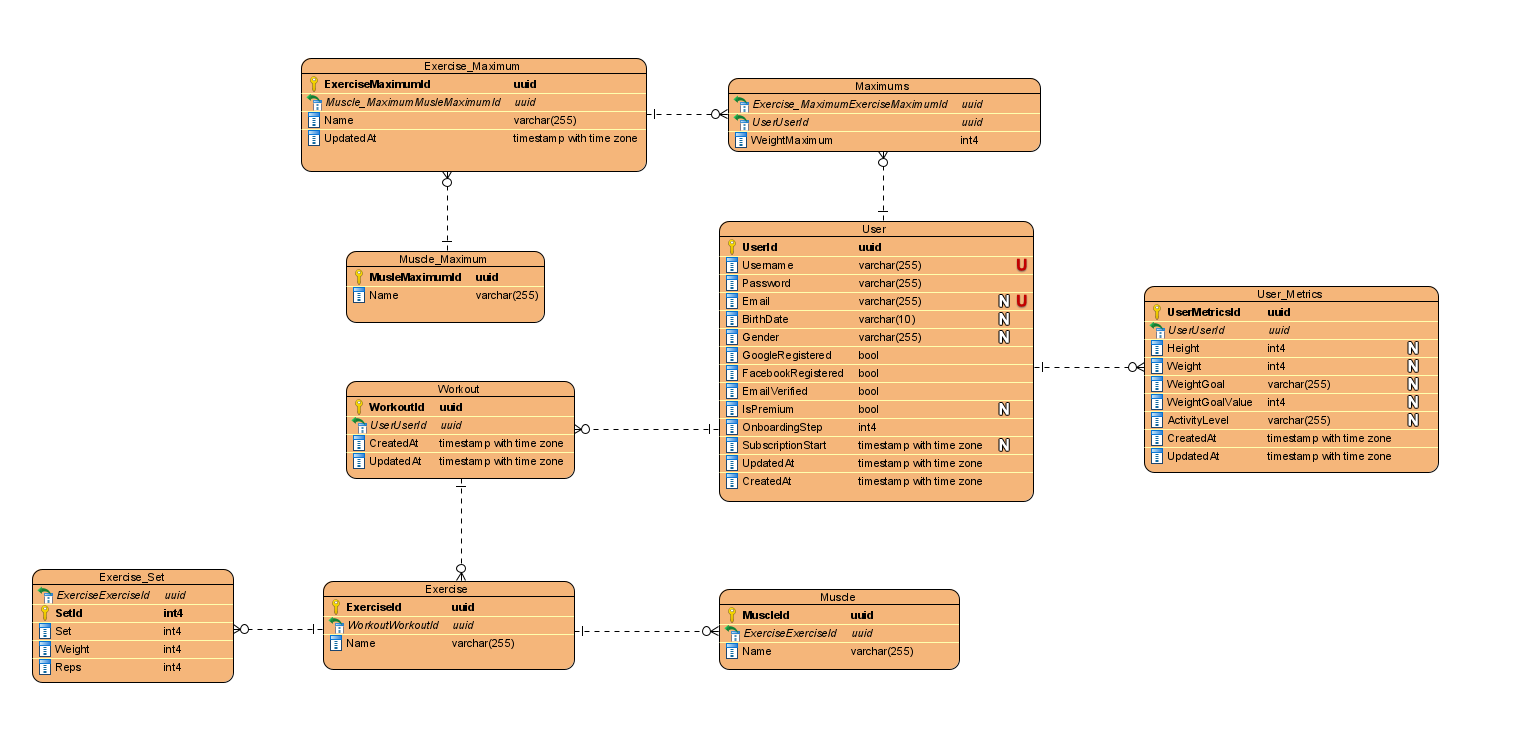
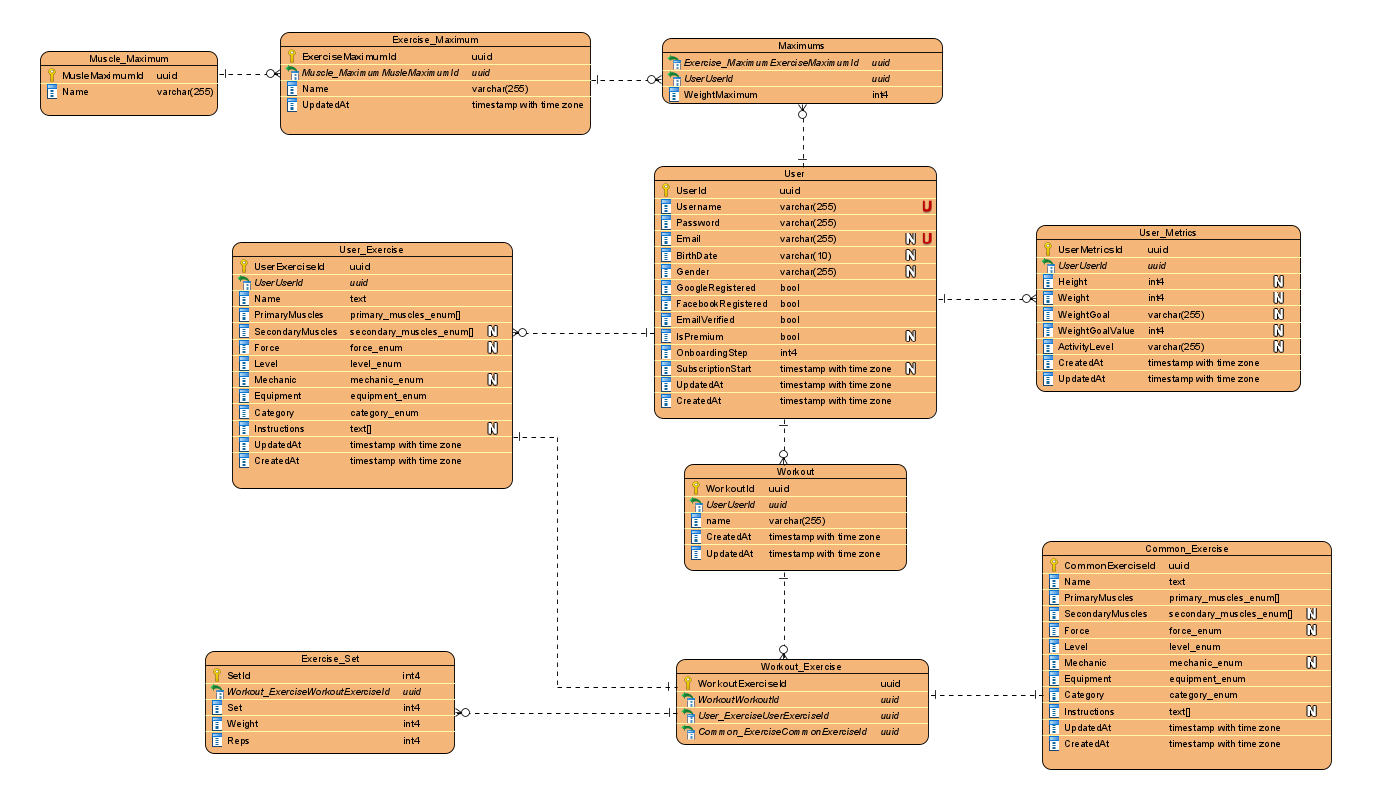
feature: updated entities

diff --git a/server/src/entities/UserExercise.ts b/server/src/entities/UserExercise.ts
@@ -1,0 +1,104 @@
+import { Field, ObjectType } from "type-graphql";
+import {
+  BaseEntity,
+  Column,
+  CreateDateColumn,
+  Entity,
+  ManyToOne,
+  OneToMany,
+  OneToOne,
+  PrimaryGeneratedColumn,
+  UpdateDateColumn,
+} from "typeorm";
+
+import {
+  AppMuscle,
+  Category,
+  Equipment,
+  Force,
+  Level,
+  Mechanic,
+} from "./CommonExercise";
+import { ExerciseSet } from "./ExerciseSet";
+import { User } from "./User";
+import { Workout } from "./Workout";
+import { WorkoutExercise } from "./WorkoutExercise";
+
+@ObjectType()
+@Entity()
+export class UserExercise extends BaseEntity {
+  // SQL
+  @Field(() => String)
+  @PrimaryGeneratedColumn("uuid")
+  id!: string;
+  // // Fields
+  // @Field(() => String)
+  // @Column({ type: "text" })
+  // name: string;
+  // @Field(() => [String])
+  // @Column({
+  //   name: "primary_muscles",
+  //   type: "enum",
+  //   enum: AppMuscle,
+  //   array: true,
+  //   default: [],
+  // })
+  // primaryMuscles: AppMuscle[];
+  // @Field(() => [String])
+  // @Column({
+  //   name: "secondary_muscles",
+  //   type: "enum",
+  //   enum: AppMuscle,
+  //   array: true,
+  //   default: [],
+  // })
+  // secondaryMuscles: AppMuscle[];
+  // @Field(() => String, { nullable: true })
+  // @Column({ type: "enum", enum: Force, nullable: true })
+  // force: Force;
+  // @Field(() => String)
+  // @Column({ type: "enum", enum: Level, nullable: true })
+  // level: Level;
+  // @Field(() => String, { nullable: true })
+  // @Column({
+  //   type: "enum",
+  //   enum: Mechanic,
+  //   nullable: true,
+  // })
+  // mechanic: Mechanic;
+  // @Field(() => String, { nullable: true })
+  // @Column({
+  //   type: "enum",
+  //   enum: Equipment,
+  //   nullable: true,
+  // })
+  // equipment: Equipment;
+  // @Field(() => String)
+  // @Column({
+  //   type: "enum",
+  //   enum: Category,
+  //   nullable: true,
+  // })
+  // category: Category;
+  // @Field(() => [String])
+  // @Column({ type: "text", array: true })
+  // instructions: string[];
+  // @Field(() => String)
+  @UpdateDateColumn({ type: "timestamp with time zone" })
+  updatedAt: Date;
+
+  @Field(() => String)
+  @CreateDateColumn({ type: "timestamp with time zone" })
+  createdAt: Date;
+
+  @Field(() => User)
+  @ManyToOne(() => User, (user: User) => user.userExercise)
+  user: User;
+
+  @Field(() => WorkoutExercise)
+  @OneToOne(
+    () => WorkoutExercise,
+    (workoutExercise: WorkoutExercise) => workoutExercise.userExercise,
+  )
+  workoutExercise: WorkoutExercise;
+}

diff --git a/server/src/entities/WorkoutExercise.ts b/server/src/entities/WorkoutExercise.ts
@@ -1,0 +1,58 @@
+import { Field, ObjectType } from "type-graphql";
+import {
+  BaseEntity,
+  CreateDateColumn,
+  Entity,
+  ManyToOne,
+  OneToMany,
+  OneToOne,
+  PrimaryGeneratedColumn,
+  UpdateDateColumn,
+} from "typeorm";
+import { CommonExercise } from "./CommonExercise";
+import { ExerciseSet } from "./ExerciseSet";
+import { UserExercise } from "./UserExercise";
+import { Workout } from "./Workout";
+
+@ObjectType()
+@Entity()
+export class WorkoutExercise extends BaseEntity {
+  // SQL
+  @Field(() => String)
+  @PrimaryGeneratedColumn("uuid")
+  id!: string;
+
+  @Field(() => String)
+  @UpdateDateColumn({ type: "timestamp with time zone" })
+  updatedAt: Date;
+
+  @Field(() => String)
+  @CreateDateColumn({ type: "timestamp with time zone" })
+  createdAt: Date;
+
+  // Relations
+  @Field(() => Workout)
+  @ManyToOne(() => Workout, (workout: Workout) => workout.workoutExercise)
+  workout: Workout;
+
+  @Field(() => [ExerciseSet])
+  @OneToMany(
+    () => ExerciseSet,
+    (exerciseSet: ExerciseSet) => exerciseSet.workoutExercise,
+  )
+  exerciseSet: ExerciseSet;
+
+  @Field(() => UserExercise)
+  @OneToOne(
+    () => UserExercise,
+    (userExercise: UserExercise) => userExercise.workoutExercise,
+  )
+  userExercise: UserExercise;
+
+  @Field(() => CommonExercise)
+  @OneToOne(
+    () => CommonExercise,
+    (commonExercise: CommonExercise) => commonExercise.workoutExercise,
+  )
+  commonExercise: CommonExercise;
+}

diff --git a/server/src/entities/Workout.ts b/server/src/entities/Workout.ts
@@ -1,17 +1,17 @@
 import moment from "moment";
 import { Field, Int, ObjectType } from "type-graphql";
 import {
-  Entity,
   BaseEntity,
-  PrimaryGeneratedColumn,
-  UpdateDateColumn,
+  Column,
   CreateDateColumn,
+  Entity,
   ManyToOne,
   OneToMany,
-  Column,
+  PrimaryGeneratedColumn,
+  UpdateDateColumn,
 } from "typeorm";
-import { Exercise } from "./Exercise";
 import { User } from "./User";
+import { WorkoutExercise } from "./WorkoutExercise";
 
 @ObjectType()
 @Entity()
@@ -35,10 +35,13 @@ export class Workout extends BaseEntity {
 
   // Relations
   @Field(() => User)
-  @ManyToOne(() => User, (user: User) => user.userMetrics)
+  @ManyToOne(() => User, (user: User) => user.workout)
   user: User;
 
-  @Field(() => [Exercise])
-  @OneToMany(() => Exercise, (exercise: Exercise) => exercise.workout)
-  exercise: Exercise[];
+  @Field(() => WorkoutExercise)
+  @OneToMany(
+    () => WorkoutExercise,
+    (workoutExercise: WorkoutExercise) => workoutExercise.workout,
+  )
+  workoutExercise: WorkoutExercise;
 }

diff --git a/server/src/index.ts b/server/src/index.ts
@@ -16,12 +16,12 @@ import { redis } from "./redis";
 
 //Entities
 import { CommonExercise } from "./entities/CommonExercise";
-import { Exercise } from "./entities/Exercise";
 import { ExerciseSet } from "./entities/ExerciseSet";
-import { Muscle } from "./entities/Muscle";
 import { User } from "./entities/User";
+import { UserExercise } from "./entities/UserExercise";
 import { UserMetrics } from "./entities/UserMetrics";
 import { Workout } from "./entities/Workout";
+import { WorkoutExercise } from "./entities/WorkoutExercise";
 
 //Resolvers
 import { UserResolver } from "./resolvers/user";
@@ -43,12 +43,12 @@ const main = async () => {
     migrations: [path.join(__dirname, "./migrations/*")],
     entities: [
       CommonExercise,
-      Exercise,
       ExerciseSet,
-      Muscle,
       User,
+      UserExercise,
       UserMetrics,
       Workout,
+      WorkoutExercise,
     ],
   });
 

diff --git a/server/src/entities/ExerciseSet.ts b/server/src/entities/ExerciseSet.ts
@@ -1,12 +1,12 @@
 import { Field, Int, ObjectType } from "type-graphql";
 import {
+  BaseEntity,
   Column,
   Entity,
-  BaseEntity,
-  PrimaryGeneratedColumn,
   ManyToOne,
+  PrimaryGeneratedColumn,
 } from "typeorm";
-import { Exercise } from "./Exercise";
+import { WorkoutExercise } from "./WorkoutExercise";
 
 @ObjectType()
 @Entity()
@@ -28,8 +28,10 @@ export class ExerciseSet extends BaseEntity {
   @Column()
   reps: number;
 
-  // Relations
-  @Field(() => Exercise)
-  @ManyToOne(() => Exercise, (exercise: Exercise) => exercise.exerciseSet)
-  exercise: Exercise[];
+  @Field(() => WorkoutExercise)
+  @ManyToOne(
+    () => WorkoutExercise,
+    (workoutExercise: WorkoutExercise) => workoutExercise.exerciseSet,
+  )
+  workoutExercise: WorkoutExercise;
 }

diff --git a/server/src/entities/CommonExercise.ts b/server/src/entities/CommonExercise.ts
@@ -4,9 +4,15 @@ import {
   Column,
   CreateDateColumn,
   Entity,
+  ManyToOne,
+  OneToMany,
+  OneToOne,
   PrimaryGeneratedColumn,
   UpdateDateColumn,
 } from "typeorm";
+import { ExerciseSet } from "./ExerciseSet";
+import { Workout } from "./Workout";
+import { WorkoutExercise } from "./WorkoutExercise";
 
 export enum AppMuscle {
   abdominals = "abdominals",
@@ -162,4 +168,11 @@ export class CommonExercise extends BaseEntity {
   @Field(() => String)
   @CreateDateColumn({ type: "timestamp with time zone" })
   createdAt: Date;
+
+  @Field(() => WorkoutExercise)
+  @OneToOne(
+    () => WorkoutExercise,
+    (workoutExercise: WorkoutExercise) => workoutExercise.commonExercise,
+  )
+  workoutExercise: WorkoutExercise;
 }

diff --git a/server/src/entities/User.ts b/server/src/entities/User.ts
@@ -8,7 +8,9 @@ import {
   OneToMany,
   CreateDateColumn,
 } from "typeorm";
+import { UserExercise } from "./UserExercise";
 import { UserMetrics } from "./UserMetrics";
+import { Workout } from "./Workout";
 
 @ObjectType()
 @Entity()
@@ -81,4 +83,15 @@ export class User extends BaseEntity {
     },
   )
   userMetrics: UserMetrics[];
+
+  @Field(() => [UserExercise])
+  @OneToMany(
+    () => UserExercise,
+    (userExercise: UserExercise) => userExercise.user,
+  )
+  userExercise: UserExercise;
+
+  @Field(() => [Workout])
+  @OneToMany(() => Workout, (workout: Workout) => workout.user)
+  workout: Workout;
 }

diff --git a/web/src/pages/AddWorkout/AddWorkout.tsx b/web/src/pages/AddWorkout/AddWorkout.tsx
@@ -49,6 +49,8 @@ const AddWorkout = () => {
     onSubmit: () => {},
   });
 
+  console.log({ blockSubmit });
+
   const handleSelectedItem = (exercise: any) => {
     const elementExist = selectedExercises?.find(
       // @ts-ignore
@@ -67,7 +69,11 @@ const AddWorkout = () => {
     }
   };
 
-  const handleFinishWorkout = () => {};
+  const handleFinishWorkout = () => {
+    if (blockSubmit) return;
+
+    console.log({ workout });
+  };
 
   const handleExerciseFormikOnChange = (e: any) => {
     workoutFormik.handleChange(e);

diff --git a/README.md b/README.md
@@ -1,5 +1,7 @@
 # ProgressPal
 
+[![wakatime](https://wakatime.com/badge/user/2206cb68-690c-48b9-8697-7dd3cfe9706c/project/f60cdead-68c3-44d3-819d-d9b4817fcf9e.svg)](https://wakatime.com/badge/user/2206cb68-690c-48b9-8697-7dd3cfe9706c/project/f60cdead-68c3-44d3-819d-d9b4817fcf9e)
+
 # Disclaimer
 
 App is not ready yet
